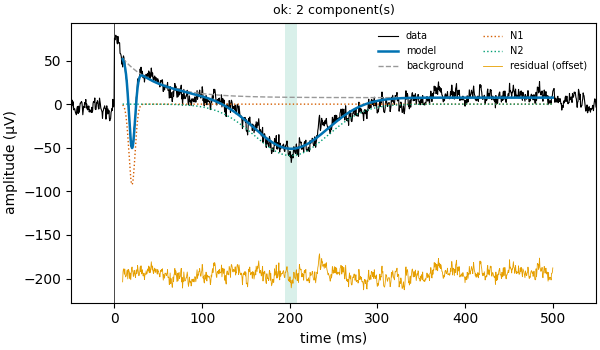
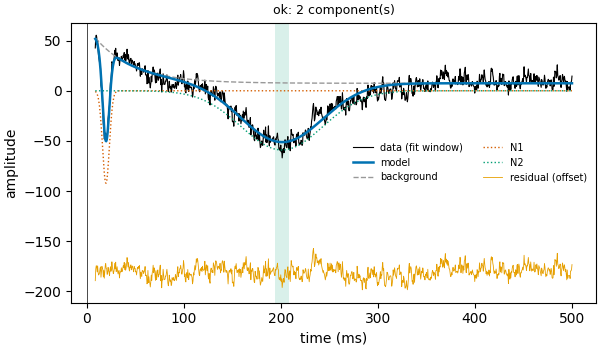
Rebuild the website: fit_response and plot_response colour in tutorial 01

diff --git a/auto_tutorials/plot_01_model_description.html b/auto_tutorials/plot_01_model_description.html
@@ -102,7 +102,14 @@ each bump happens, how high it is, and how wide it is.</p>
 <p>In this first tutorial, we make an example curve, let evoparam describe it, and look at
 what the description means.</p>
 <div class="highlight-Python notranslate"><div class="highlight"><pre><span class="c1"># Import what we need</span><span class="w">
-</span><span class="kn">from</span><span class="w"> </span><span class="nn">evoparam</span><span class="w"> </span><span class="kn">import</span> <span class="n">gen_response</span><span class="p">,</span> <span class="n">plot_annotated_fit</span><span class="p">,</span> <span class="n">plot_response</span><span class="p">,</span> <span class="n">report</span><span class="w">
+</span><span class="kn">from</span><span class="w"> </span><span class="nn">evoparam</span><span class="w"> </span><span class="kn">import</span> <span class="p">(</span><span class="w">
+</span>    <span class="n">fit_response</span><span class="p">,</span><span class="w">
+</span>    <span class="n">gen_response</span><span class="p">,</span><span class="w">
+</span>    <span class="n">plot_annotated_fit</span><span class="p">,</span><span class="w">
+</span>    <span class="n">plot_fit</span><span class="p">,</span><span class="w">
+</span>    <span class="n">plot_response</span><span class="p">,</span><span class="w">
+</span>    <span class="n">report</span><span class="p">,</span><span class="w">
+</span><span class="p">)</span><span class="w">
 </span></pre></div></div>
 </section>
 <section id="making-an-example-curve">
@@ -123,7 +130,7 @@ what the description means.</p>
 page.</p>
 <p>Let’s look at the curve. The stimulus happens at time 0 (the dashed line).</p>
 <div class="highlight-Python notranslate"><div class="highlight"><pre><span class="c1"># Plot the curve, from 100 ms before to 500 ms after the stimulus</span><span class="w">
-</span><span class="n">fig</span> <span class="o">=</span> <span class="n">plot_response</span><span class="p">(</span><span class="n">times</span><span class="p">,</span> <span class="n">signal</span><span class="p">,</span> <span class="n">xlim</span><span class="o">=</span><span class="p">[</span><span class="o">-</span><span class="mi">100</span><span class="p">,</span> <span class="mi">500</span><span class="p">]</span><span class="p">)</span><span class="w">
+</span><span class="n">fig</span> <span class="o">=</span> <span class="n">plot_response</span><span class="p">(</span><span class="n">times</span><span class="p">,</span> <span class="n">signal</span><span class="p">,</span> <span class="n">xlim</span><span class="o">=</span><span class="p">[</span><span class="o">-</span><span class="mi">100</span><span class="p">,</span> <span class="mi">500</span><span class="p">]</span><span class="p">,</span> <span class="n">color</span><span class="o">=</span><span class="s2">&quot;</span><span class="s2">black</span><span class="s2">&quot;</span><span class="p">)</span><span class="w">
 </span></pre></div></div>
 <img src="../_images/sphx_glr_plot_01_model_description_001.png" srcset="../_images/sphx_glr_plot_01_model_description_001.png" alt="plot 01 model description" class = "sphx-glr-single-img"/><p>Before 0, the curve only wiggles: that is noise. Just after 0 it jumps up and slowly comes
 back, then the two bumps go down, one sharp and one broad.</p>
@@ -214,10 +221,19 @@ possible to the curve.</p>
 <h2>Trying another curve<a class="headerlink" href="#trying-another-curve" title="Link to this heading">¶</a></h2>
 <p>The same lines work on any curve. This one has an earlier, smaller first bump, a later
 second bump and a stronger background.</p>
+<p>This time we do the steps one by one: <code class="docutils literal notranslate"><span class="pre">fit_response</span></code> only fits the model (no figure),
+<code class="docutils literal notranslate"><span class="pre">print</span></code> shows the summary and <code class="docutils literal notranslate"><span class="pre">plot_fit</span></code> draws the result. <code class="docutils literal notranslate"><span class="pre">report</span></code> is these three
+steps in one line.</p>
 <div class="highlight-Python notranslate"><div class="highlight"><pre><span class="c1"># Two other bumps, and a background given as [height (µV), how fast it fades (ms)]</span><span class="w">
 </span><span class="n">bumps</span> <span class="o">=</span> <span class="p">[</span><span class="p">[</span><span class="mi">20</span><span class="p">,</span> <span class="o">-</span><span class="mi">100</span><span class="p">,</span> <span class="mi">8</span><span class="p">]</span><span class="p">,</span> <span class="p">[</span><span class="mi">200</span><span class="p">,</span> <span class="o">-</span><span class="mi">50</span><span class="p">,</span> <span class="mi">100</span><span class="p">]</span><span class="p">]</span><span class="w">
 </span><span class="n">times2</span><span class="p">,</span> <span class="n">signal2</span> <span class="o">=</span> <span class="n">gen_response</span><span class="p">(</span><span class="n">bumps</span><span class="p">,</span> <span class="n">background</span><span class="o">=</span><span class="p">[</span><span class="mi">80</span><span class="p">,</span> <span class="mi">40</span><span class="p">]</span><span class="p">,</span> <span class="n">seed</span><span class="o">=</span><span class="mi">1</span><span class="p">)</span><span class="w">
-</span><span class="nb">print</span><span class="p">(</span><span class="n">report</span><span class="p">(</span><span class="n">times2</span><span class="p">,</span> <span class="n">signal2</span><span class="p">,</span> <span class="n">preset</span><span class="o">=</span><span class="s2">&quot;</span><span class="s2">ccep</span><span class="s2">&quot;</span><span class="p">)</span><span class="p">)</span><span class="w">
+</span><span class="w">
+</span><span class="c1"># Fit the model, without drawing</span><span class="w">
+</span><span class="n">fit2</span> <span class="o">=</span> <span class="n">fit_response</span><span class="p">(</span><span class="n">times2</span><span class="p">,</span> <span class="n">signal2</span><span class="p">,</span> <span class="n">preset</span><span class="o">=</span><span class="s2">&quot;</span><span class="s2">ccep</span><span class="s2">&quot;</span><span class="p">)</span><span class="w">
+</span></pre></div></div>
+<div class="highlight-Python notranslate"><div class="highlight"><pre><span class="c1"># Show the summary, then draw the fit</span><span class="w">
+</span><span class="nb">print</span><span class="p">(</span><span class="n">fit2</span><span class="p">)</span><span class="w">
+</span><span class="n">fig</span> <span class="o">=</span> <span class="n">plot_fit</span><span class="p">(</span><span class="n">fit2</span><span class="p">)</span><span class="w">
 </span></pre></div></div>
 <img src="../_images/sphx_glr_plot_01_model_description_004.png" srcset="../_images/sphx_glr_plot_01_model_description_004.png" alt="ok: 2 component(s)" class = "sphx-glr-single-img"/><div class="sphx-glr-script-out highlight-none notranslate"><div class="highlight"><pre><span></span>==================================================================
                     evoparam - RESPONSE MODEL
@@ -238,7 +254,7 @@ second bump and a stronger background.</p>
 <div class="admonition note">
 <p class="admonition-title">Note</p>
 <p>Try it yourself: change the numbers given to <code class="docutils literal notranslate"><span class="pre">gen_response</span></code> (move a bump, make it
-smaller, add more noise with <code class="docutils literal notranslate"><span class="pre">noise=20</span></code>) and run <code class="docutils literal notranslate"><span class="pre">report</span></code> again. When the bumps get
+smaller, add more noise with <code class="docutils literal notranslate"><span class="pre">noise=20</span></code>) and fit it again. When the bumps get
 small compared to the noise, evoparam starts to miss them, as anyone would.</p>
 </div>
 </section>
@@ -247,7 +263,7 @@ small compared to the noise, evoparam starts to miss them, as anyone would.</p>
 <p>evoparam describes a curve as a background, a few bumps and some noise, and gives the
 timing, height and width of each bump. In the next tutorials, we look at the settings of
 the model and use it on real recordings.</p>
-<p class="sphx-glr-timing"><strong>Total running time of the script:</strong> (0 minutes 1.811 seconds)</p>
+<p class="sphx-glr-timing"><strong>Total running time of the script:</strong> (0 minutes 2.026 seconds)</p>
 <div class="sphx-glr-footer sphx-glr-footer-example docutils container" id="sphx-glr-download-auto-tutorials-plot-01-model-description-py">
 <div class="sphx-glr-download sphx-glr-download-jupyter docutils container">
 <p><a class="reference download internal" download="" href="../_downloads/fc75f50fc2efd4dd4ab0291b9e2d23f9/plot_01_model_description.ipynb"><code class="xref download docutils literal notranslate"><span class="pre">Download</span> <span class="pre">Jupyter</span> <span class="pre">notebook:</span> <span class="pre">plot_01_model_description.ipynb</span></code></a></p>

diff --git a/searchindex.js b/searchindex.js
@@ -1,1 +1,1 @@
-Search.setIndex({"alltitles":{"01: Model description":[[1,null]],"Computation times":[[2,null],[4,null]],"Conceptual overview":[[1,"conceptual-overview"]],"Conclusion":[[1,"conclusion"]],"Describing the curve":[[1,"describing-the-curve"]],"Get started":[[3,"get-started"]],"Install":[[3,"install"]],"Introduction":[[1,"introduction"]],"Making an example curve":[[1,"making-an-example-curve"]],"Mathematical description":[[1,"mathematical-description"]],"Reading the numbers on the curve":[[1,"reading-the-numbers-on-the-curve"]],"Trying another curve":[[1,"trying-another-curve"]],"Tutorials":[[0,null]],"evoparam":[[3,null]]},"docnames":["auto_tutorials/index","auto_tutorials/plot_01_model_description","auto_tutorials/sg_execution_times","index","sg_execution_times"],"envversion":{"sphinx":66,"sphinx.domains.c":3,"sphinx.domains.changeset":1,"sphinx.domains.citation":1,"sphinx.domains.cpp":9,"sphinx.domains.index":1,"sphinx.domains.javascript":3,"sphinx.domains.math":2,"sphinx.domains.python":4,"sphinx.domains.rst":2,"sphinx.domains.std":2,"sphinx_gallery.gen_gallery":1},"filenames":["auto_tutorials/index.rst","auto_tutorials/plot_01_model_description.rst","auto_tutorials/sg_execution_times.rst","index.rst","sg_execution_times.rst"],"indexentries":{},"objects":{},"objnames":{},"objtypes":{},"terms":{"A":1,"Each":1,"Here":1,"If":1,"In":1,"It":1,"The":1,"These":1,"This":1,"To":1,"What":1,"When":1,"a_k":1,"across":1,"activ":1,"add":1,"alreadi":1,"amplitud":1,"ani":1,"answer":1,"anyon":1,"arrow":1,"ask":1,"auto_tutori":2,"averag":1,"away":1,"axi":1,"b":1,"back":1,"background":[1,3],"bar":1,"befor":1,"bell":1,"better":1,"big":1,"black":1,"blue":1,"bottom":1,"brain":1,"broad":1,"bump":[1,3],"call":1,"ccep":1,"centr":1,"chang":1,"clean":1,"clear":1,"clone":3,"close":1,"code":1,"com":3,"come":1,"compar":1,"compon":1,"constant":1,"curv":0,"dash":1,"decid":1,"describ":3,"descript":[0,2,3,4],"doc":4,"doe":[0,1],"dot":1,"download":1,"draw":1,"e":3,"earlier":1,"electr":1,"electrod":1,"end":1,"equip":1,"everi":1,"everyth":1,"evok":[1,3],"evoparam":[0,1],"exampl":[0,2,4],"execut":[2,4],"explain":1,"exponenti":1,"extra":1,"fade":1,"fast":1,"fig":1,"figur":1,"file":[2,4],"find":1,"first":[0,1],"fit":1,"fix":1,"flash":1,"formula":1,"found":1,"full":1,"galleri":[0,1,4],"gen_respons":1,"generat":[0,1],"get":1,"git":3,"github":3,"give":[1,3],"given":1,"go":1,"goe":1,"half":1,"happen":1,"height":[1,3],"help":1,"hidden":1,"high":1,"https":3,"import":1,"introduct":0,"invent":1,"ipynb":1,"jump":1,"jupyt":1,"just":1,"k":1,"keep":1,"know":1,"label":1,"latenc":1,"later":1,"learn":1,"left":1,"length":1,"let":1,"level":1,"light":1,"like":1,"line":1,"look":1,"made":1,"mani":1,"maximum":1,"mb":[2,4],"mean":1,"measur":1,"mem":[2,4],"microvolt":1,"millisecond":1,"minut":1,"miss":1,"model":[0,2,3,4],"move":1,"ms":1,"n":1,"n1":1,"n2":1,"name":1,"need":1,"negat":1,"new":1,"next":1,"nois":1,"notebook":1,"noth":1,"now":1,"one":[0,1],"onli":1,"orang":1,"order":1,"page":1,"parameter":3,"part":1,"peak":1,"pip":3,"plot":1,"plot_01_model_descript":[1,2,4],"plot_annotated_fit":1,"plot_respons":1,"possibl":1,"preset":1,"print":1,"puls":1,"put":1,"py":[1,2,4],"python":1,"qualiti":1,"r2":1,"random":1,"readi":1,"real":1,"receiv":1,"record":1,"recov":1,"remov":1,"repeat":1,"report":1,"respons":[1,3],"right":1,"run":1,"s":1,"s_k":1,"scale":1,"script":1,"second":1,"see":1,"seed":1,"set":1,"shape":1,"sharp":1,"short":1,"show":[0,1],"shown":1,"signal":1,"signal2":1,"simpl":1,"size":1,"slow":[1,3],"slowli":1,"small":1,"smaller":1,"sound":1,"sourc":1,"sphinx":[0,1],"start":[0,1],"step":0,"stimulus":1,"stronger":1,"sum":1,"sum_":1,"summari":1,"t":1,"thick":1,"three":1,"time":[1,3],"times2":1,"tini":1,"total":[1,2,4],"tutori":[1,4],"two":1,"use":1,"usual":1,"varepsilon":1,"voltag":1,"want":1,"wave":1,"whatev":1,"whi":1,"whose":1,"wide":1,"width":[1,3],"wiggl":1,"window":1,"without":1,"work":1,"written":1,"x":1,"xlim":1,"y":1,"yannbellec":3,"zip":1,"\u00b5v":1},"titles":["Tutorials","01: Model description","Computation times","evoparam","Computation times"],"titleterms":{"anoth":1,"comput":[2,4],"conceptu":1,"conclus":1,"curv":1,"describ":1,"descript":1,"evoparam":3,"exampl":1,"get":3,"instal":3,"introduct":1,"make":1,"mathemat":1,"model":1,"number":1,"overview":1,"read":1,"start":3,"time":[2,4],"tri":1,"tutori":0}})
+Search.setIndex({"alltitles":{"01: Model description":[[1,null]],"Computation times":[[2,null],[4,null]],"Conceptual overview":[[1,"conceptual-overview"]],"Conclusion":[[1,"conclusion"]],"Describing the curve":[[1,"describing-the-curve"]],"Get started":[[3,"get-started"]],"Install":[[3,"install"]],"Introduction":[[1,"introduction"]],"Making an example curve":[[1,"making-an-example-curve"]],"Mathematical description":[[1,"mathematical-description"]],"Reading the numbers on the curve":[[1,"reading-the-numbers-on-the-curve"]],"Trying another curve":[[1,"trying-another-curve"]],"Tutorials":[[0,null]],"evoparam":[[3,null]]},"docnames":["auto_tutorials/index","auto_tutorials/plot_01_model_description","auto_tutorials/sg_execution_times","index","sg_execution_times"],"envversion":{"sphinx":66,"sphinx.domains.c":3,"sphinx.domains.changeset":1,"sphinx.domains.citation":1,"sphinx.domains.cpp":9,"sphinx.domains.index":1,"sphinx.domains.javascript":3,"sphinx.domains.math":2,"sphinx.domains.python":4,"sphinx.domains.rst":2,"sphinx.domains.std":2,"sphinx_gallery.gen_gallery":1},"filenames":["auto_tutorials/index.rst","auto_tutorials/plot_01_model_description.rst","auto_tutorials/sg_execution_times.rst","index.rst","sg_execution_times.rst"],"indexentries":{},"objects":{},"objnames":{},"objtypes":{},"terms":{"A":1,"Each":1,"Here":1,"If":1,"In":1,"It":1,"The":1,"These":1,"This":1,"To":1,"What":1,"When":1,"a_k":1,"across":1,"activ":1,"add":1,"alreadi":1,"amplitud":1,"ani":1,"answer":1,"anyon":1,"arrow":1,"ask":1,"auto_tutori":2,"averag":1,"away":1,"axi":1,"b":1,"back":1,"background":[1,3],"bar":1,"befor":1,"bell":1,"better":1,"big":1,"black":1,"blue":1,"bottom":1,"brain":1,"broad":1,"bump":[1,3],"call":1,"ccep":1,"centr":1,"chang":1,"clean":1,"clear":1,"clone":3,"close":1,"code":1,"color":1,"com":3,"come":1,"compar":1,"compon":1,"constant":1,"curv":0,"dash":1,"decid":1,"describ":3,"descript":[0,2,3,4],"doc":4,"doe":[0,1],"dot":1,"download":1,"draw":1,"e":3,"earlier":1,"electr":1,"electrod":1,"end":1,"equip":1,"everi":1,"everyth":1,"evok":[1,3],"evoparam":[0,1],"exampl":[0,2,4],"execut":[2,4],"explain":1,"exponenti":1,"extra":1,"fade":1,"fast":1,"fig":1,"figur":1,"file":[2,4],"find":1,"first":[0,1],"fit":1,"fit2":1,"fit_respons":1,"fix":1,"flash":1,"formula":1,"found":1,"full":1,"galleri":[0,1,4],"gen_respons":1,"generat":[0,1],"get":1,"git":3,"github":3,"give":[1,3],"given":1,"go":1,"goe":1,"half":1,"happen":1,"height":[1,3],"help":1,"hidden":1,"high":1,"https":3,"import":1,"introduct":0,"invent":1,"ipynb":1,"jump":1,"jupyt":1,"just":1,"k":1,"keep":1,"know":1,"label":1,"latenc":1,"later":1,"learn":1,"left":1,"length":1,"let":1,"level":1,"light":1,"like":1,"line":1,"look":1,"made":1,"mani":1,"maximum":1,"mb":[2,4],"mean":1,"measur":1,"mem":[2,4],"microvolt":1,"millisecond":1,"minut":1,"miss":1,"model":[0,2,3,4],"move":1,"ms":1,"n":1,"n1":1,"n2":1,"name":1,"need":1,"negat":1,"new":1,"next":1,"nois":1,"notebook":1,"noth":1,"now":1,"one":[0,1],"onli":1,"orang":1,"order":1,"page":1,"parameter":3,"part":1,"peak":1,"pip":3,"plot":1,"plot_01_model_descript":[1,2,4],"plot_annotated_fit":1,"plot_fit":1,"plot_respons":1,"possibl":1,"preset":1,"print":1,"puls":1,"put":1,"py":[1,2,4],"python":1,"qualiti":1,"r2":1,"random":1,"readi":1,"real":1,"receiv":1,"record":1,"recov":1,"remov":1,"repeat":1,"report":1,"respons":[1,3],"result":1,"right":1,"run":1,"s":1,"s_k":1,"scale":1,"script":1,"second":1,"see":1,"seed":1,"set":1,"shape":1,"sharp":1,"short":1,"show":[0,1],"shown":1,"signal":1,"signal2":1,"simpl":1,"size":1,"slow":[1,3],"slowli":1,"small":1,"smaller":1,"sound":1,"sourc":1,"sphinx":[0,1],"start":[0,1],"step":[0,1],"stimulus":1,"stronger":1,"sum":1,"sum_":1,"summari":1,"t":1,"thick":1,"three":1,"time":[1,3],"times2":1,"tini":1,"total":[1,2,4],"tutori":[1,4],"two":1,"use":1,"usual":1,"varepsilon":1,"voltag":1,"want":1,"wave":1,"whatev":1,"whi":1,"whose":1,"wide":1,"width":[1,3],"wiggl":1,"window":1,"without":1,"work":1,"written":1,"x":1,"xlim":1,"y":1,"yannbellec":3,"zip":1,"\u00b5v":1},"titles":["Tutorials","01: Model description","Computation times","evoparam","Computation times"],"titleterms":{"anoth":1,"comput":[2,4],"conceptu":1,"conclus":1,"curv":1,"describ":1,"descript":1,"evoparam":3,"exampl":1,"get":3,"instal":3,"introduct":1,"make":1,"mathemat":1,"model":1,"number":1,"overview":1,"read":1,"start":3,"time":[2,4],"tri":1,"tutori":0}})

diff --git a/sg_execution_times.html b/sg_execution_times.html
@@ -81,7 +81,7 @@
       
   <section id="computation-times">
 <span id="sphx-glr-sg-execution-times"></span><h1>Computation times<a class="headerlink" href="#computation-times" title="Link to this heading">¶</a></h1>
-<p><strong>00:01.811</strong> total execution time for 1 file <strong>from all galleries</strong>:</p>
+<p><strong>00:02.026</strong> total execution time for 1 file <strong>from all galleries</strong>:</p>
 <div class="docutils container">
 <style scoped>
 <link href="https://cdnjs.cloudflare.com/ajax/libs/twitter-bootstrap/5.3.0/css/bootstrap.min.css" rel="stylesheet" />
@@ -103,7 +103,7 @@ $(document).ready( function () {
 </thead>
 <tbody>
 <tr class="row-even"><td><p><a class="reference internal" href="auto_tutorials/plot_01_model_description.html#sphx-glr-auto-tutorials-plot-01-model-description-py"><span class="std std-ref">01: Model description</span></a> (<code class="docutils literal notranslate"><span class="pre">../docs/tutorials/plot_01_model_description.py</span></code>)</p></td>
-<td><p>00:01.811</p></td>
+<td><p>00:02.026</p></td>
 <td><p>0.0</p></td>
 </tr>
 </tbody>

diff --git a/auto_tutorials/sg_execution_times.html b/auto_tutorials/sg_execution_times.html
@@ -81,7 +81,7 @@
       
   <section id="computation-times">
 <span id="sphx-glr-auto-tutorials-sg-execution-times"></span><h1>Computation times<a class="headerlink" href="#computation-times" title="Link to this heading">¶</a></h1>
-<p><strong>00:01.811</strong> total execution time for 1 file <strong>from auto_tutorials</strong>:</p>
+<p><strong>00:02.026</strong> total execution time for 1 file <strong>from auto_tutorials</strong>:</p>
 <div class="docutils container">
 <style scoped>
 <link href="https://cdnjs.cloudflare.com/ajax/libs/twitter-bootstrap/5.3.0/css/bootstrap.min.css" rel="stylesheet" />
@@ -103,7 +103,7 @@ $(document).ready( function () {
 </thead>
 <tbody>
 <tr class="row-even"><td><p><a class="reference internal" href="plot_01_model_description.html#sphx-glr-auto-tutorials-plot-01-model-description-py"><span class="std std-ref">01: Model description</span></a> (<code class="docutils literal notranslate"><span class="pre">plot_01_model_description.py</span></code>)</p></td>
-<td><p>00:01.811</p></td>
+<td><p>00:02.026</p></td>
 <td><p>0.0</p></td>
 </tr>
 </tbody>

diff --git a/_downloads/fffbd92de9532af77bdd8868014d8ce7/plot_01_model_description.py b/_downloads/fffbd92de9532af77bdd8868014d8ce7/plot_01_model_description.py
@@ -27,7 +27,14 @@ What evoparam does, shown on one example curve.
 ###################################################################################################
 
 # Import what we need
-from evoparam import gen_response, plot_annotated_fit, plot_response, report
+from evoparam import (
+    fit_response,
+    gen_response,
+    plot_annotated_fit,
+    plot_fit,
+    plot_response,
+    report,
+)
 
 ###################################################################################################
 # Making an example curve
@@ -58,7 +65,7 @@ times, signal = gen_response([[25, -150, 10], [150, -80, 80]], seed=3)
 ###################################################################################################
 
 # Plot the curve, from 100 ms before to 500 ms after the stimulus
-fig = plot_response(times, signal, xlim=[-100, 500])
+fig = plot_response(times, signal, xlim=[-100, 500], color="black")
 
 ###################################################################################################
 #
@@ -158,20 +165,32 @@ fig = plot_annotated_fit(fit)
 #
 # The same lines work on any curve. This one has an earlier, smaller first bump, a later
 # second bump and a stronger background.
+#
+# This time we do the steps one by one: ``fit_response`` only fits the model (no figure),
+# ``print`` shows the summary and ``plot_fit`` draws the result. ``report`` is these three
+# steps in one line.
 
 ###################################################################################################
 
 # Two other bumps, and a background given as [height (µV), how fast it fades (ms)]
 bumps = [[20, -100, 8], [200, -50, 100]]
 times2, signal2 = gen_response(bumps, background=[80, 40], seed=1)
-print(report(times2, signal2, preset="ccep"))
+
+# Fit the model, without drawing
+fit2 = fit_response(times2, signal2, preset="ccep")
+
+###################################################################################################
+
+# Show the summary, then draw the fit
+print(fit2)
+fig = plot_fit(fit2)
 
 ###################################################################################################
 #
 # .. note::
 #
 #     Try it yourself: change the numbers given to ``gen_response`` (move a bump, make it
-#     smaller, add more noise with ``noise=20``) and run ``report`` again. When the bumps get
+#     smaller, add more noise with ``noise=20``) and fit it again. When the bumps get
 #     small compared to the noise, evoparam starts to miss them, as anyone would.
 
 ###################################################################################################
